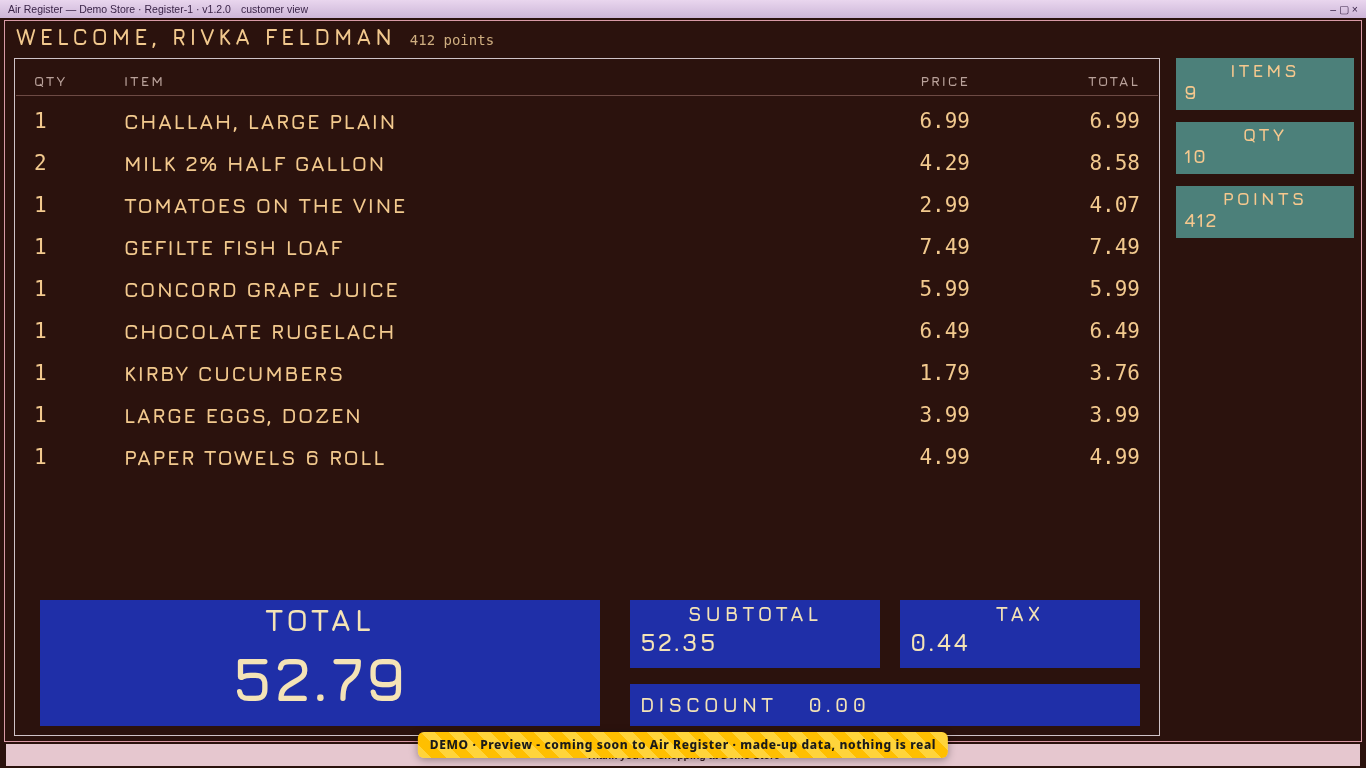
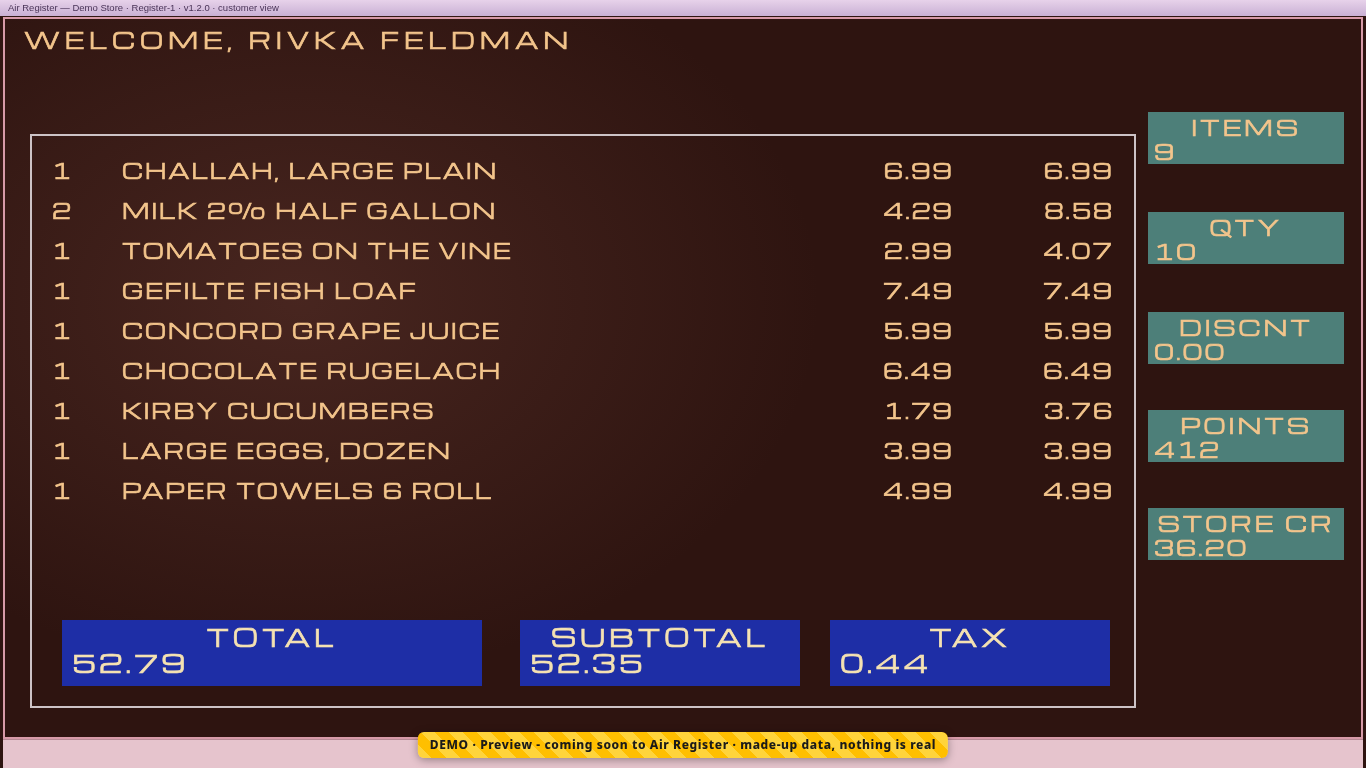
Style 37 Maroon Console: update to the new mockup and add a Keys screen
- Re-copied the updated mockup with comments stripped and no README; pictures re-made from the cleaned page.
- New Keys screen (F1) shown as a fifth screen button and picture.

diff --git a/demo/previews/demo-style-37-maroon-console/index.html b/demo/previews/demo-style-37-maroon-console/index.html
@@ -2,112 +2,91 @@
 <script src="../common/demo-data.js"></script><script src="../common/demo-ribbon.js"></script>
 <style>
 *{box-sizing:border-box}
-body{margin:0;width:1366px;height:768px;overflow:hidden;background:#2b120d;font:13px 'Jura','Exo 2',sans-serif;color:#f2c98e;position:relative}
-body[data-screen=sale] .pay,body[data-screen=pay] .sale,body:not([data-screen=cfd]) .cfd,body[data-screen=cfd] .op,body[data-screen=menu] .op,body:not([data-screen=menu]) .menu{display:none!important}
+body{margin:0;width:1366px;height:768px;overflow:hidden;background:#2e1410;color:#f3c58c;position:relative;font-family:'Michroma','Jura',sans-serif}
+body[data-screen=sale] .pay,body[data-screen=pay] .sale,body:not([data-screen=cfd]) .cfd,body:not([data-screen=menu]) .menu,body:not([data-screen=keys]) .keys,
+body[data-screen=cfd] .op,body[data-screen=menu] .op,body[data-screen=keys] .op{display:none!important}
+.hid{display:none!important} 
 .a{position:absolute}
-.f{font-family:'Jura','Exo 2',sans-serif;font-weight:700;letter-spacing:3px;text-transform:uppercase}
-.mono{font-family:'DejaVu Sans Mono',monospace}
-.tb{left:0;top:0;width:1366px;height:18px;background:linear-gradient(#e9d6ee,#cdb6d8);color:#3a2448;font:10.5px/18px 'Liberation Sans';padding:0 8px;white-space:nowrap;display:flex;gap:10px}
-.tb .sp{flex:1}
-.frame{left:4px;top:20px;width:1358px;height:722px;border:1.5px solid #d99aa6}
-.np{position:absolute;left:16px;top:24px;font:700 22px 'Jura';letter-spacing:4px;color:#b3a4a0;white-space:nowrap;background:none;border:0;padding:0;text-align:left;cursor:pointer;display:flex;gap:14px;align-items:baseline}
-.np .k{font:12px 'DejaVu Sans Mono';letter-spacing:0;color:#8f7c76}
-.tk{display:block;width:100%;background:#4c807a;border:0;padding:0 8px;text-align:left;color:#f6c88e;cursor:pointer;overflow:hidden;font-family:inherit}
-.tk.big{height:42px;margin-bottom:8px;display:flex;align-items:center;gap:12px}
-.tk.big .l{font:700 22px 'Jura';letter-spacing:4px;text-transform:uppercase;white-space:nowrap}
-.tk.big .k{margin-left:auto;font:12px 'DejaVu Sans Mono';color:#e9e2c8;white-space:nowrap}
-.tk.sm{height:27px;margin-bottom:2px;display:flex;flex-direction:column;justify-content:center;padding:0 6px}
-.tk.sm .l{font:700 11px/1.1 'Jura';letter-spacing:1.2px;text-transform:uppercase;white-space:nowrap}
-.tk.sm .k{font:9.5px/1.1 'DejaVu Sans Mono';color:#dfe6d6;white-space:nowrap}
-.tk.red .l{color:#ffb4a0}
-.lc{left:12px;top:58px;width:392px}
-.lc .two{display:grid;grid-template-columns:1fr 1fr;column-gap:6px}
-.cp{left:420px;top:58px;width:740px;height:678px;border:1.5px solid #cfc3c8}
-.lh,.li{display:grid;grid-template-columns:70px 1fr 110px 110px;padding:0 18px;white-space:nowrap}
-.lh{left:422px;top:66px;width:736px;font:700 12px 'Jura';letter-spacing:2px;color:#b9a19a;border-bottom:1px solid #6d4a44;height:24px;align-items:center}
-.li{height:31px;align-items:center;font:700 16px 'Jura';letter-spacing:1.5px;color:#f2c98e;text-transform:uppercase}
-.li span:nth-child(1),.li span:nth-child(n+3){text-align:right;font-family:'DejaVu Sans Mono';letter-spacing:0;font-weight:400}
-.li span:nth-child(1){text-align:left}
-.li.cur{background:#4a2018}
-.eb{left:626px;top:512px;width:376px;height:40px;border:2px solid #e3a64a;display:flex;align-items:center;padding:0 10px;font:15px 'DejaVu Sans Mono';color:#f2c98e;white-space:nowrap}
-.qsb{left:626px;top:560px;width:376px;height:26px;border:1px solid #9b6e36;display:flex;align-items:center;gap:8px;padding:0 8px;font:11px 'DejaVu Sans Mono';color:#cfae80;white-space:nowrap}
-.qsb b{font:700 11px 'Jura';letter-spacing:1px;color:#f2c98e}.qsb .kk{margin-left:auto;color:#e3a64a}
-.bb{background:#1f2fa8;color:#f4e3b6;padding:4px 10px;white-space:nowrap}
-.bb .l{display:block;text-align:center;font:700 20px/1 'Jura';letter-spacing:4px}
-.bb .v{display:block;font:700 24px/1.2 'Jura';letter-spacing:2px;margin-top:4px}
-.rv{left:1176px;width:178px;height:52px;background:#4c807a;color:#f6c88e;padding:3px 8px;white-space:nowrap}
-.rv .l{display:block;text-align:center;font:700 18px/1.1 'Jura';letter-spacing:3px}
-.rv .v{display:block;font:700 19px/1.2 'Jura';letter-spacing:1.5px}
-.rk{left:1176px;width:178px}
-.leg{left:6px;top:744px;width:1354px;height:22px;background:#e6c7cf;color:#3a1e26;font:10.5px/22px 'Liberation Sans';padding:0 8px;white-space:nowrap;display:flex;gap:14px}
-.leg b{font:700 10px 'DejaVu Sans Mono'}.leg .sp{flex:1}
+.glow{background:radial-gradient(ellipse 520px 380px at 300px 300px,rgba(120,70,60,.35),rgba(0,0,0,0))}
+.tb{left:0;top:0;width:1366px;height:16px;background:linear-gradient(#e7d2ea,#c9b0d4);color:#4a3458;font:9.5px/16px 'Liberation Sans';padding:0 8px;white-space:nowrap}
+.frame{left:3px;top:17px;width:1360px;height:722px;border:2px solid #d79aa8}
+.strip{left:3px;top:739px;width:1360px;height:29px;background:#e6c4cd;border-top:1px solid #b88a96}
+.np{left:24px;top:24px;font-size:25px;letter-spacing:5px;color:#9f9690;white-space:nowrap}
+.tk{position:absolute;left:30px;width:262px;height:58px;background:#4d7f79;border:0;padding:6px 0 0 8px;text-align:left;color:#f3c58c;font:25px 'Michroma';letter-spacing:4px;white-space:nowrap;overflow:hidden;cursor:pointer}
+.tk.on{outline:3px solid #e3a54a;outline-offset:-3px}
+.cp{left:318px;top:134px;width:818px;height:574px;border:2px solid #cdc3c6}
+.li{display:grid;grid-template-columns:56px 1fr 120px 120px;height:35px;align-items:center;font:17px 'Michroma';letter-spacing:2px;color:#f3c58c;white-space:nowrap;padding:0 20px}
+.li span:nth-child(n+3){text-align:right}
+.li.cur{color:#ffe0a8;background:rgba(120,50,35,.45)}
+.eb{left:536px;top:498px;width:424px;height:66px;border:3px solid #e3a54a;padding:0 14px;display:flex;align-items:center;font:24px 'Michroma';color:#f3c58c;white-space:nowrap}
+.bb{top:620px;height:66px;background:#1e2ea6;color:#f5e2b2;padding:4px 10px 0;white-space:nowrap}
+.bb .l{display:block;text-align:center;font:24px/1.05 'Michroma';letter-spacing:4px}
+.bb .v{display:block;font:25px/1.1 'Michroma';letter-spacing:3px}
+.rv{left:1148px;width:196px;height:52px;background:#4d7f79;color:#f3c58c;padding:4px 6px 0;white-space:nowrap}
+.rv .l{display:block;text-align:center;font:21px/1.1 'Michroma';letter-spacing:3px}
+.rv .v{display:block;font:21px/1.2 'Michroma';letter-spacing:2px}
 .cfd{position:absolute;inset:0}
-.menu{position:absolute;inset:0;background:#1418a6;font-family:'VT323',monospace;color:#dfe3ff;overflow:hidden}
-.wall{position:absolute;left:-40px;top:52px;width:1460px;height:690px;color:#2a32d6;font:italic 700 22px/27px 'VT323';white-space:nowrap;overflow:hidden;opacity:.95}
-.mh{left:0;top:18px;width:1366px;height:34px;display:flex;align-items:center;padding:0 22px;font:30px 'VT323';color:#e6e9ff;white-space:nowrap}
-.mh .t{flex:1;text-align:center;letter-spacing:15px}
-.mt{left:478px;top:62px;width:410px;height:30px;background:#7a2412;color:#ffd04a;font:28px/30px 'VT323';text-align:center;white-space:pre}
-.mbox{left:478px;top:250px;width:410px;height:258px;background:#1418a6;border:2px solid #dfe3ff;box-shadow:22px 22px 0 #0b0b22;padding:12px 10px}
-.mi{display:flex;height:28px;align-items:center;padding:0 10px;font:28px 'VT323';color:#e6e9ff;white-space:nowrap}
-.mi .k{margin-left:auto;font-size:22px;color:#9fb0ff}
-.mi.on{background:#8f3ab0;color:#ffe45a}.mi.on .k{color:#ffe45a}
-.mf{left:0;top:738px;width:1366px;height:30px;text-align:center;font:26px/30px 'VT323';color:#dfe3ff}
-.mf span{background:#5b63d8;color:#fff;padding:0 4px}
+.tk,.bb,.rv,.np,.eb,.li{-webkit-text-stroke:.7px currentColor} 
+.keys{position:absolute;inset:0}
+.kg{font:13px 'Michroma';letter-spacing:3px;color:#9f9690;margin:8px 0 4px;white-space:nowrap}
+.kr{display:flex;width:100%;background:none;border:0;padding:0;height:21px;align-items:center;font:12px 'Michroma';letter-spacing:1px;color:#f3c58c;text-align:left;white-space:nowrap;cursor:pointer}
+.kr .k{margin-left:auto;font:12px 'DejaVu Sans Mono';color:#e3a54a;letter-spacing:0}
+.kr.red .l{color:#ffab95}
+.menu{position:absolute;inset:0;background:#1517a4;font-family:'VT323',monospace;color:#dfe3ff;overflow:hidden}
+.wall{position:absolute;left:-30px;top:58px;width:1460px;height:660px;color:#2328c4;font:italic 700 22px/26px 'VT323';white-space:nowrap;overflow:hidden}
+.mh{left:0;top:18px;width:1366px;height:40px;display:flex;align-items:center;padding:0 22px;font:32px 'VT323';color:#e6e9ff;white-space:nowrap}
+.mh .t{flex:1;text-align:center;letter-spacing:16px}
+.mt{left:423px;top:118px;width:430px;height:34px;background:#7a2412;color:#ffd04a;font:30px/34px 'VT323';text-align:center;white-space:pre}
+.mbox{left:506px;top:282px;width:288px;height:268px;background:#1517a4;border:2px solid #dfe3ff;box-shadow:24px 24px 0 #0a0a1e;padding:12px 14px}
+.mi{height:30px;line-height:30px;font:30px 'VT323';color:#e6e9ff;white-space:nowrap;padding:0 6px}
+.mi.on{background:#8e3aae;color:#ffe45a}
+.mf{left:0;top:736px;width:1366px;height:32px;text-align:center;font:28px/32px 'VT323';color:#dfe3ff}
+.mf span{background:#6870dc;color:#fff;padding:0 3px}
 </style></head><body>
-<div class="op" id="op"></div><div class="cfd" id="cfd"></div><div class="menu" id="menu"></div>
+<div class="op" id="op"></div><div class="cfd" id="cfd"></div><div class="menu" id="menu"></div><div class="keys" id="keys" data-keys-screen="1"></div>
 <script>const C=D.cust,L_=D.lines,m2=v=>v.toFixed(2);
 const P=(x,y,w,h)=>`left:${x}px;top:${y}px${w!=null?';width:'+w+'px':''}${h!=null?';height:'+h+'px':''}`;
 const div=(cls,x,y,w,h,html='',st='')=>`<div class="a ${cls}" style="${P(x,y,w,h)};${st}">${html}</div>`;
-const tbar=t=>`<div class="a tb"><span>Air Register — ${D.store} · Register-1 · ${D.ver}</span><span>${t}</span><span class="sp"></span><span>–  ▢  ×</span></div><div class="a frame"></div>`;
-const kb=k=>`<span class="l">${k.l}</span>${k.k?`<span class="k">${D.kc(k.k)}</span>`:''}`;
-const leg=mid=>`<div class="a leg">${mid}<span class="sp"></span><span>● online</span><span>User: ${D.cashier}</span><span>Session ${D.session}</span><span>10/29/26 4:12 PM</span></div>`;
-const BIG=[['t-payment','TENDER'],['g-gift','FS TEND'],['a-customer','ON ACNT'],['a-return','RETURNS'],['x-taxoff','WIC']];
-const used=new Set([...BIG.map(b=>b[0]),'x-reprint']);
-const rest=D.KEYS.filter(k=>!used.has(k.id)).map(k=>k.id);
-const leftSm=rest.slice(0,30), rightSm=rest.slice(30);
-const lc=`<div class="a lc">${BIG.map(([id])=>D.b(id,'tk big',kb)).join('')}<div class="two">${leftSm.map(id=>D.b(id,'tk sm',kb)).join('')}</div></div>`;
-const rv=(y,l,v)=>div('rv',1176,y,null,null,`<span class="l">${l}</span><span class="v">${v}</span>`);
-const bb=(x,w,l,v)=>div('bb',x,662,w,68,`<span class="l">${l}</span><span class="v">${v}</span>`);
-const list=`<div class="a cp"></div><div class="a lh"><span>QTY</span><span>ITEM</span><span style="text-align:right">PRICE</span><span style="text-align:right">TOTAL</span></div>
-<div class="a" style="${P(422,92,736,290)}">${L_.map((l,i)=>`<div class="li${i==L_.length-1?' cur':''}"><span>${l.q}</span><span>${l.n}</span><span>${m2(l.p)}</span><span>${m2(l.t)}</span></div>`).join('')}</div>`;
-const sale=`<div class="sale">${tbar('Sale')}${D.b('x-reprint','np',k=>`<span>REPRINT</span><span class="k">${k.l} · ${D.kc(k.k)}</span>`)}
-${lc}${list}
-${div('eb',626,512,376,40,'_ <span style="color:#9b7a5a;margin-left:8px">Scan items....</span>')}
-<div class="a qsb" data-qs="1"><b>${D.qs.title}</b>${D.qs.ph}<span class="kk">${D.qs.alt} · ${D.qs.k}</span></div>
-${bb(440,230,'TOTAL',m2(D.total))}${bb(690,230,'SUBTOTAL',m2(D.sub))}${bb(940,200,'BEFORE TAX',m2(D.sub-D.disc))}
-${rv(58,'ROWS',L_.length)}${rv(122,'DISCNT',m2(D.disc))}${rv(186,'TAX',m2(D.tax))}${rv(250,'QTY',D.count)}${rv(314,'STORE CR',m2(C.acct))}
-${div('',1176,380,178,40,`<span style="font:700 11px 'Jura';letter-spacing:1.5px;color:#b9a19a">CUSTOMER</span><br><span style="font:700 13px 'Jura';letter-spacing:1px">${C.name.toUpperCase()}</span>`)}
-<div class="a rk" style="top:430px">${rightSm.map(id=>D.b(id,'tk sm',kb)).join('')}</div>
-${leg(D.legendHTML('  ·  '))}</div>`;
-const PL=[['Credit Card','20.00','✔ paid'],['Cash','40.00','typed'],['Gift Card','',''],['Check','',''],['Store credit','','']];
-const pk=(l,k,big,on)=>`<button class="tk ${big?'big':'sm'}"${on?' style="outline:2px solid #e3a64a"':''} data-pay="${l}"><span class="l">${l}</span><span class="k">${k}</span></button>`;
-const pay=`<div class="pay" data-pay="1">${tbar('Payment')}<div class="a np">PAYMENT</div>
-<div class="a lc">${PL.map((p,i)=>pk(p[0],p[1]||'—',1,i==1)).join('')}<div class="two">${D.PAY.quick.map(q=>pk(q,'quick cash')).join('')}</div>
-<div style="height:8px"></div>${pk(D.PAY.ok,'Enter (when fully paid)',0)}${pk(D.PAY.back,'Esc — back to the sale',0)}
-<div style="margin-top:12px;font:12px/21px 'Liberation Sans';color:#d9b98e">${D.PAY.keys.map(k=>`<b class="mono" style="display:inline-block;width:52px;color:#e3a64a">${k[0]}</b>${k[1]}`).join('<br>')}<br><span style="color:#a98f80">Store credit shows when a customer is on the sale.</span></div></div>
-<div class="a cp"></div><div class="a lh"><span></span><span>PAYMENT LINE</span><span style="text-align:right">AMOUNT</span><span style="text-align:right">STATUS</span></div>
-<div class="a" style="${P(422,92,736,200)}">${PL.map((p,i)=>`<div class="li${i==1?' cur':''}"><span>${i+1}</span><span>${p[0]}</span><span>${p[1]}</span><span style="font-family:'Jura';font-weight:700">${p[2]}</span></div>`).join('')}</div>
-${div('eb',626,512,376,40,'40.00_ <span style="color:#9b7a5a;margin-left:8px">Cash</span>')}
-${bb(440,230,'TOTAL',m2(D.total))}${bb(690,230,'BALANCE','0.00')}${bb(940,200,'CHANGE',m2(D.change))}
-${rv(58,'DUE',m2(D.total))}${rv(122,'PAID','60.00')}${rv(186,'BALANCE','0.00')}${rv(250,'CHANGE',m2(D.change))}${rv(314,'ITEMS',L_.length+'/'+D.count)}
-${leg('<span><b>Enter</b> next line / finish · <b>+</b> full balance · <b>Esc</b> back to sale</span>')}</div>`;
+const chrome=t=>`<div class="a glow" style="inset:0"></div><div class="a tb">Air Register — ${D.store} · Register-1 · ${D.ver} · ${t}</div><div class="a frame"></div><div class="a strip"></div>`;
+const KY=[94,208,322,436,550];
+const RY=[112,212,312,410,508];
+const BB=[[350,244],[630,254],[915,212]];
+const rv=(i,l,v)=>div('rv',1148,RY[i],null,null,`<span class="l">${l}</span><span class="v">${v}</span>`);
+const bb=(i,l,v)=>div('bb',BB[i][0],0,BB[i][1],null,`<span class="l">${l}</span><span class="v">${v}</span>`).replace('top:0px;','');
+const BIG=[['t-payment','TENDER'],['g-gift','GIFT CARD'],['a-customer','CUSTOMER'],['a-return','RETURN'],['x-taxoff','TAX OFF']];
+const big=BIG.map(([id],i)=>D.b(id,'tk',k=>k.l.toUpperCase()).replace('class="tk','style="top:'+KY[i]+'px" class="tk')).join('');
+const used=new Set(BIG.map(b=>b[0]));
+const hidden=`<div class="hid">${D.KEYS.filter(k=>!used.has(k.id)).map(k=>D.b(k.id,'hk')).join('')}</div>`;
+const rows=L_.map((l,i)=>`<div class="li${i==L_.length-1?' cur':''}"><span>${l.q}</span><span>${l.n.toUpperCase()}</span><span>${m2(l.p)}</span><span>${m2(l.t)}</span></div>`).join('');
+const sale=`<div class="sale">${chrome('Sale')}<div class="a np">${D.cashier.toUpperCase()}</div>${big}${hidden}
+<div class="a cp"></div><div class="a" style="${P(320,150,814,330)}">${rows}</div>
+<div class="a eb">_</div>
+${bb(0,'TOTAL',m2(D.total))}${bb(1,'SUBTOTAL',m2(D.sub))}${bb(2,'BEFORE TAX',m2(D.sub-D.disc)).replace('class="l"','class="l" style="font-size:19px;letter-spacing:1px"')}
+${rv(0,'ROWS',L_.length)}${rv(1,'DISCNT',m2(D.disc))}${rv(2,'TAX',m2(D.tax))}${rv(3,'QTY',D.count)}${rv(4,'STORE CR',m2(C.acct))}</div>`;
+const PL=[['CREDIT CARD','20.00','✔ PAID'],['CASH','40.00',''],['GIFT CARD','',''],['CHECK','',''],['STORE CREDIT','','']];
+const pay=`<div class="pay" data-pay="1">${chrome('Payment')}<div class="a np">PAYMENT</div>
+${PL.map((p,i)=>`<button class="tk${i==1?' on':''}" style="top:${KY[i]}px;font-size:${p[0].length>9?19:25}px" data-pay="${p[0]}">${p[0]}</button>`).join('')}
+<div class="hid">${D.PAY.quick.map(q=>`<button data-pay="${q}">${q}</button>`).join('')}<button data-pay="ok">${D.PAY.ok}</button><button data-pay="back">${D.PAY.back}</button></div>
+<div class="a cp"></div><div class="a" style="${P(320,150,814,120)}">${PL.slice(0,2).map((p,i)=>`<div class="li${i==1?' cur':''}" style="grid-template-columns:1fr 160px 170px"><span>${p[0]}</span><span style="text-align:right">${p[1]}</span><span>${p[2]}</span></div>`).join('')}</div>
+<div class="a eb">40.00_</div>
+${bb(0,'TOTAL',m2(D.total))}${bb(1,'UNPAID','0.00').replace('UNPAID','BALANCE')}${bb(2,'CHANGE',m2(D.change))}
+${rv(0,'DUE',m2(D.total))}${rv(1,'PAID','60.00')}${rv(2,'BALANCE','0.00')}${rv(3,'CHANGE',m2(D.change))}${rv(4,'ITEMS',L_.length+'/'+D.count)}</div>`;
 op.innerHTML=sale+pay;
-cfd.innerHTML=`${tbar('customer view')}<div class="a np" style="color:#f2c98e">WELCOME, ${C.name.toUpperCase()} <span class="k" style="font-size:14px;color:#cfae80">${C.pts} points</span></div>
-<div class="a cp" style="left:14px;width:1146px"></div>
-<div class="a lh" style="left:16px;width:1142px;grid-template-columns:90px 1fr 170px 170px;font-size:14px;height:30px"><span>QTY</span><span>ITEM</span><span style="text-align:right">PRICE</span><span style="text-align:right">TOTAL</span></div>
-<div class="a" style="${P(16,100,1142,400)}">${L_.map(l=>`<div class="li" style="height:42px;font-size:21px;grid-template-columns:90px 1fr 170px 170px"><span>${l.q}</span><span>${l.n}</span><span>${m2(l.p)}</span><span>${m2(l.t)}</span></div>`).join('')}</div>
-${div('bb',40,600,560,126,`<span class="l" style="font-size:30px;line-height:1.1">TOTAL</span><span class="v" style="font-size:62px;text-align:center">${m2(D.total)}</span>`)}
-${bb(630,250,'SUBTOTAL',m2(D.sub)).replace('top:662px','top:600px')}${bb(900,240,'TAX',m2(D.tax)).replace('top:662px','top:600px')}
-${bb(630,510,'DISCOUNT',m2(D.disc)).replace('top:662px','top:684px').replace('height:68px','height:42px').replace('class="v"','class="v" style="display:none"').replace('<span class="l">DISCOUNT</span>','<span class="l" style="text-align:left;line-height:34px">DISCOUNT&nbsp;&nbsp; '+m2(D.disc)+'</span>')}
-${rv(58,'ITEMS',L_.length)}${rv(122,'QTY',D.count)}${rv(186,'POINTS',C.pts)}
-<div class="a leg" style="justify-content:center;font-weight:700">Thank you for shopping at ${D.store}</div>`;
-const M=[['Sale (Items)','Esc'],['End of Day','Ctrl+E'],['Customer','F3'],['Price Check','Ctrl+I'],['History','Ctrl+L'],['Hardware Check','Ctrl+Shift+D'],['Printer & Drawer','Ctrl+,'],['Exit','Ctrl+Shift+Q']];
-const wall=Array.from({length:26},(_,r)=>(r%2?'  ':'')+'— Air Register '.repeat(40)).join('<br>');
-menu.innerHTML=`<div class="a tb"><span>Air Register — ${D.store} · Register-1 · ${D.ver}</span><span class="sp"></span><span>–  ▢  ×</span></div>
-<div class="wall">${wall}</div>
+cfd.innerHTML=`${chrome('customer view')}<div class="a np" style="color:#f3c58c;font-size:22px">WELCOME, ${C.name.toUpperCase()}</div>
+<div class="a cp" style="left:30px;width:1106px"></div><div class="a" style="${P(32,150,1102,380)}">${L_.map(l=>`<div class="li" style="height:40px;font-size:20px;grid-template-columns:70px 1fr 160px 160px"><span>${l.q}</span><span>${l.n.toUpperCase()}</span><span>${m2(l.p)}</span><span>${m2(l.t)}</span></div>`).join('')}</div>
+${div('bb',62,0,420,null,`<span class="l">TOTAL</span><span class="v">${m2(D.total)}</span>`).replace('top:0px;','')}${div('bb',520,0,280,null,`<span class="l">SUBTOTAL</span><span class="v">${m2(D.sub)}</span>`).replace('top:0px;','')}${div('bb',830,0,280,null,`<span class="l">TAX</span><span class="v">${m2(D.tax)}</span>`).replace('top:0px;','')}
+${rv(0,'ITEMS',L_.length)}${rv(1,'QTY',D.count)}${rv(2,'DISCNT',m2(D.disc))}${rv(3,'POINTS',C.pts)}${rv(4,'STORE CR',m2(C.acct))}`;
+const cols=[['Actions','Tiles'],['Transaction Actions','Gift Cards','Lookups'],['Items','Register']];
+keys.innerHTML=`${chrome('Keys (F1)')}<div class="a np">KEYS</div><div class="a cp" style="left:30px;top:70px;width:1306px;height:638px"></div>
+${cols.map((gs,c)=>`<div class="a" style="${P(56+c*430,82,400,620)}">${gs.map(g=>`<div class="kg">${g.toUpperCase()}</div>`+D.group(g).map(id=>D.b(id,'kr')).join('')).join('')}${c==2?`<div class="kg">KEYBOARD ONLY</div>${D.legendHTML('<br>').replace(/<b>/g,'<b style="font:12px DejaVu Sans Mono;color:#e3a54a">').replace('<span data-legend="1">','<span data-legend="1" style="font:12px/21px Michroma;letter-spacing:1px">')}`:''}</div>`).join('')}
+<div class="a eb" style="left:930px;top:640px;width:380px;height:48px;font-size:15px" data-qs="1">${D.qs.title.toUpperCase()}: ${D.qs.alt} · ${D.qs.k}</div>
+<div class="a" style="left:60px;top:652px;font:15px 'Michroma';letter-spacing:2px;color:#9f9690">ESC = BACK TO SALE</div>`;
+const M=[['Sale','Esc'],['End of Day','Ctrl+E'],['Customer','F3'],['Price Check','Ctrl+I'],['History','Ctrl+L'],['Hardware','Ctrl+Shift+D'],['Printer','Ctrl+,'],['Exit','Ctrl+Shift+Q']];
+const wall=Array.from({length:26},(_,r)=>(r%2?'   ':'')+'— Air Register '.repeat(40)).join('<br>');
+menu.innerHTML=`<div class="a tb">Air Register — ${D.store} · Register-1 · ${D.ver}</div><div class="wall">${wall}</div>
 <div class="a mh"><span>10/29/26</span><span class="t">=== Air Register ===</span><span>04:12:00 pm</span></div>
 <div class="a mt">-=≡ *** MAIN MENU *** ≡=-</div>
-<div class="a mbox">${M.map(([t,k],i)=>`<div class="mi${i==1?' on':''}">${t}<span class="k">${k}</span></div>`).join('')}</div>
-<div class="a mf"><span>Key</span> Select — press the key shown on each line</div>`;
+<div class="a mbox">${M.map(([t],i)=>`<div class="mi${i==1?' on':''}">${t}</div>`).join('')}</div>
+<div class="a mf"><span>${M[1][1]}</span>Select</div>`;
 D.show();
 </script></body></html>

diff --git a/demo/assets/demo-site.js b/demo/assets/demo-site.js
@@ -80,7 +80,7 @@ function frameCommon(s) {
   sel.onchange = () => { location.search = '?style=' + encodeURIComponent(sel.value); };
 }
 // 'preview' styles: not in Air Register yet. Shows the design mockup (switch screens with the buttons) and its pictures.
-const PREVIEW_SHOTS = { sale: ['sale', 'Sale screen'], payment: ['pay', 'Payment screen'], customer: ['cfd', 'Customer screen'], menu: ['menu', 'Register menu'] };
+const PREVIEW_SHOTS = { sale: ['sale', 'Sale screen'], payment: ['pay', 'Payment screen'], customer: ['cfd', 'Customer screen'], menu: ['menu', 'Register menu'], keys: ['keys', 'Keys screen'] };
 function renderPreview(s) {
   document.title = `DEMO - Style ${s.id} ${s.name} - Preview - Demo Store`;
   document.body.classList.add('isPreview');

diff --git a/demo/demo-styles-config.js b/demo/demo-styles-config.js
@@ -36,5 +36,5 @@ window.DEMO_STYLES = [
     desc: 'A blue action rail down the left, big cards for customer, items, discount and pay, and a full item table.',
     preview: { dir: 'previews/demo-style-36-rail-cards/', shots: ['sale', 'payment', 'customer'] } },
   { id: '37', slug: 'maroon-console',   name: 'Maroon Console',   css: false, js: false, swatch: ['#2b120d', '#4c807a', '#1418a6'], stage: 'preview', downloadUrl: null,
-    preview: { dir: 'previews/demo-style-37-maroon-console/', shots: ['sale', 'payment', 'customer', 'menu'] } },
+    preview: { dir: 'previews/demo-style-37-maroon-console/', shots: ['sale', 'payment', 'customer', 'menu', 'keys'] } },
 ];
